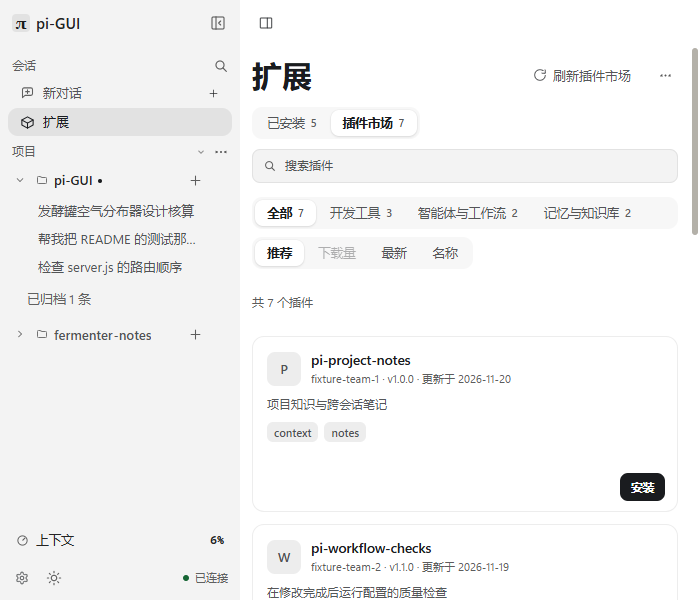
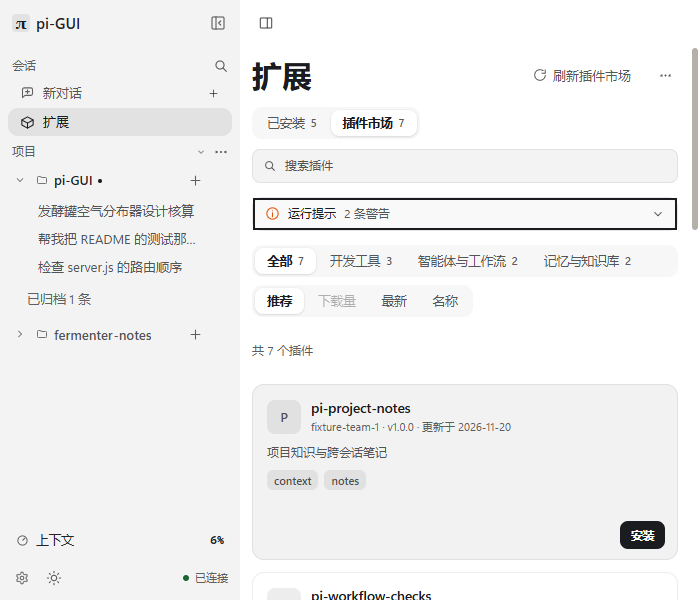
docs(extensions): 更新长运行提示的宽窄窗口截图和验收证据
记录折叠高度、首条扩展位置、键盘滚动范围，以及已通过的准确 CI 基线；代表图只使用可复现的离线数据。

diff --git a/docs/agent-capabilities-phase3-final-acceptance.md b/docs/agent-capabilities-phase3-final-acceptance.md
@@ -56,7 +56,7 @@ PI-Desktop 对照锁定到 [`7b8c3169`](https://github.com/vastsa/PI-Desktop/tre
 | 700×600 浅 | [列表](ui/evidence/agent-capabilities-phase3/skills/700-light-list.png) · [市场](ui/evidence/agent-capabilities-phase3/skills/700-light-04-market.png) | [已安装](ui/evidence/agent-capabilities-phase3/extensions/700-light-installed.png) · [市场](ui/evidence/agent-capabilities-phase3/extensions/700-light-market.png) | [管理](ui/evidence/agent-capabilities-phase3/mcp/700-light-management.png) · [市场](ui/evidence/agent-capabilities-phase3/mcp/700-light-market.png) |
 
 - Skills：Chrome 真实 Renderer，44 张、0 页面异常；[测量](ui/evidence/agent-capabilities-phase3/skills/render.json)。各组技能标题 30px/700，分组 16px，页头按钮 32px，列表和市场内容区横向溢出 0px。[编辑](ui/evidence/agent-capabilities-phase3/skills/700-dark-02c-editor-edit.png) · [导入](ui/evidence/agent-capabilities-phase3/skills/700-light-03-import.png) · [扫描](ui/evidence/agent-capabilities-phase3/skills/700-dark-04b-external.png) · [预览](ui/evidence/agent-capabilities-phase3/skills/1320-dark-07-preview.png) · [成功](ui/evidence/agent-capabilities-phase3/skills/1320-dark-11-notice.png) · [空组](ui/evidence/agent-capabilities-phase3/skills/700-dark-05-empty.png) · [错误](ui/evidence/agent-capabilities-phase3/skills/700-light-06-error.png)。
-- Extensions：Electron 离线真实窗口，20 张；[测量](ui/evidence/agent-capabilities-phase3/extensions/render.json)。两列/一列，市场卡片高 176px、圆角 12px、紧凑按钮 28px，横向溢出 0px。[筛选](ui/evidence/agent-capabilities-phase3/extensions/700-light-filtered.png) · [空结果](ui/evidence/agent-capabilities-phase3/extensions/700-light-empty.png) · [详情](ui/evidence/agent-capabilities-phase3/extensions/1320-dark-detail.png) · [确认](ui/evidence/agent-capabilities-phase3/extensions/1320-dark-confirm.png) · [安装中](ui/evidence/agent-capabilities-phase3/extensions/700-light-installing.png) · [安装失败](ui/evidence/agent-capabilities-phase3/extensions/700-light-install-failed.png)。
+- Extensions：Electron 离线真实窗口，22 张；[测量](ui/evidence/agent-capabilities-phase3/extensions/render.json)。补测使用扩展通知真实入口注入两条合成长诊断，不含用户截图里的实际路径或消息。四组默认只占 **34px**；首条扩展从桌面 y=254.5px / 窄窗 y=284.5px 开始。Enter 展开原文、Tab 进入正文、PageDown 只滚正文，收起后不丢全文；没有提示时不占位。[桌面展开](ui/evidence/agent-capabilities-phase3/extensions/1320-dark-run-notices.png) · [窄窗展开](ui/evidence/agent-capabilities-phase3/extensions/700-light-run-notices.png)。两列/一列，市场卡片高 176px、圆角 12px、紧凑按钮 28px，横向溢出 0px。[筛选](ui/evidence/agent-capabilities-phase3/extensions/700-light-filtered.png) · [空结果](ui/evidence/agent-capabilities-phase3/extensions/700-light-empty.png) · [详情](ui/evidence/agent-capabilities-phase3/extensions/1320-dark-detail.png) · [确认](ui/evidence/agent-capabilities-phase3/extensions/1320-dark-confirm.png) · [安装中](ui/evidence/agent-capabilities-phase3/extensions/700-light-installing.png) · [安装失败](ui/evidence/agent-capabilities-phase3/extensions/700-light-install-failed.png)。
 - MCP：`MCP_VISUAL_MATRIX=1 MCP_MARKET_PAGINATION=1 MCP_MARKET_PROGRESS=1 node tests/mcp-visual.cjs`。原版管理页四组标题 **30px/700**、按钮 32px、管理页溢出 0px；[测量](ui/evidence/agent-capabilities-phase3/mcp/render.json) · [新增](ui/evidence/agent-capabilities-phase3/mcp/700-dark-add.png) · [分页](ui/evidence/agent-capabilities-phase3/mcp/05d-market-narrow.png) · [安装预览](ui/evidence/agent-capabilities-phase3/mcp/04-install-preview.png) · [加载](ui/evidence/agent-capabilities-phase3/mcp/06-market-loading.png) · [不匹配](ui/evidence/agent-capabilities-phase3/mcp/700-light-empty-search.png) · [读取失败](ui/evidence/agent-capabilities-phase3/mcp/700-light-read-error.png)。管理页的测量不证明 MCP 市场在所有数据下无溢出。
 
 ## 测试、构建与审查
@@ -69,7 +69,7 @@ PI-Desktop 对照锁定到 [`7b8c3169`](https://github.com/vastsa/PI-Desktop/tre
 | `node tests/agent-capability-pages.cjs` | 49 | 0 | 三页结构、状态和生命周期 |
 | `npm run test:primitives`，4 套件 | 116 | 0 | 具名检查；包括真实 Electron 样式 |
 | `node tests/server-security.cjs` / `capability-install.cjs` / `high-risk-regressions.cjs` | 44 / 83 / 28 | 0 | 隔离夹具 |
-| `node tests/extension-market-electron.cjs` / `node tests/shortcut-electron.cjs` | 33 / 103 | 0 | 20 / 35 张图，测试窗口不作为正常原生沙箱证明 |
+| `node tests/extension-market-electron.cjs` / `node tests/shortcut-electron.cjs` | 45 / 103 | 0 | 22 / 35 张图，测试窗口不作为正常原生沙箱证明 |
 | `PI_BIN=… node tests/skills-live.cjs` | 32 | 0 | 真实 Pi 1.6.0，仅临时数据 |
 | `PI_BIN=… node tests/agent-capabilities-live.cjs` | 27 | 0 | 源码 HTTP 后端；另指定 `PI_GUI_LIVE_BACKEND` 实测打包后的 `server.cjs` |
 | `npm run build:app -- --rebuild` | — | 0 | 本机 Electron 44.4.3 ZIP 离线重建；Windows x64 整包 335.3 MB |
@@ -91,7 +91,9 @@ PI-Desktop 对照锁定到 [`7b8c3169`](https://github.com/vastsa/PI-Desktop/tre
 
 新增回归提交 `24fbc2b9`；独立审查不等同于合并批准。
 
-**完整证明待验证。** 首次本地 `npm test` 停在 `tests/high-risk-regressions.cjs` 的普通文件名 `report%20final.txt`：断言 `result.ok` 为 `false`（27/28）。上传模块、路由和该用例均不在分支 diff 内；单独复跑为 28/28。失败日志未给出具体请求错误，不能推定根因，也不能把重跑单套件当作全量通过。本地第二次 `npm test` 启动于复审增量之前，不把它提前记作新提交的通过证明；最终提交的完整 PR CI 与本地结果分别记录。
+运行提示增量（产品 `2b04c3c1`、测试 `5523c8cb`）：旧页面的长消息用例先红（页面回归 48/49，期望折叠控件、实际是平铺 section）；改后 49/49，另外通知路由/生命周期 10/10、扩展三套件 310/310、共享原语 116 项通过。Electron 首轮键盘驱动只发送键码，没有模拟原生 Enter 的字符事件，未能展开；与仓库已有原生 `summary` 测试对齐输入方式，不更改产品键盘语义，最终四组 45/45。
+
+**完整证明待验证。** 首次本地 `npm test` 停在 `tests/high-risk-regressions.cjs` 的普通文件名 `report%20final.txt`：断言 `result.ok` 为 `false`（27/28）。上传模块、路由和该用例均不在分支 diff 内；单独复跑为 28/28。失败日志未给出具体请求错误，不能推定根因，也不能把重跑单套件当作全量通过。本地第二次 `npm test` 启动于复审增量之前，在 `tests/provider-config-store.cjs` 的 3 项 Windows 原生凭据文件保护断言失败，不记作通过。[完整 PR CI 45033732461](https://github.com/HYJ1817/pi-gui/actions/runs/45033732461) 对 `74955f2e` 已成功，但不替代随后「运行提示折叠及已安装列表精简」的完整证明。后者已通过本地定向和真实渲染，最终提交的完整 CI 另记。
 
 边界：没有真实远端模型、OAuth、外部 Registry 安装、第三方 MCP 或安装程序升级测试；未在同版本上实际操作 PI-Desktop（使用了上游原图与当前源码）；未逐项覆盖任意字体放大、所有瞬时交互或所有可见颜色的 WCAG 对比度。Windows 文件符号链接的跳过项仍待有权限的环境复验。文件系统对象的外部并发替换保留[安全规范](security.md#技能写入与市场2a)所述边界。
 

diff --git a/docs/agent-capabilities.md b/docs/agent-capabilities.md
@@ -33,9 +33,10 @@ Pi 原生 MCP 协议都**没有改**，变的只是前端承载。
 - **扩展页**：页头（唯一的「扩展」标题 + 当前页签的动作，「已安装」是刷新）→ 页签行
   （已安装 · 插件市场，右侧挂当前页签的工具栏，「已安装」是搜索与「找到 N 个，共 M 个」）→ 页签面板。
   工作区标题栏里的同名标题在本页隐藏，一屏只有一个「扩展」。
+  - 两个页签共享当前 Pi 运行的「运行提示」。没有提示就不占位；有提示时默认收成一行，按错误、警告、普通提示显示去重条数。展开才显示原文与重复次数。更新不抢焦点，切项目或重启后不保留旧原文。扩展主动上报的严重错误仍走原有即时通知，不把来源不明的诊断归给某个包。
   - 「已安装」合并只读 Registry 与包清单，整宽条目按证据分组：需要处理（有 `error`）→ 已加载 → 未加载 →
-    加载状态未知（`loaded: null` 单独成组，不并进「未加载」）。每行显示名称、版本 · 来源 · 作用域、非空简介、
-    需要注意的状态标签（已停用 / 需要重启）、至多 3 个已确认能力（其余折成「另有 N 项」）、一行错误。
+    加载状态未知（`loaded: null` 单独成组，不并进「未加载」）。每行显示名称、版本 · 来源 · 作用域、一行非空简介，
+    标题旁保留更新、停用或需要重启等状态；加载错误仍直接可见。命令和工具名字不占列表行，仍可搜索。
     「详情」在卡片内展开：事实行（`null` 显示「未知」）、错误阶段、已确认能力全集、工具清单限制；
     展开时简介不再截断，详情里不重复简介与错误。详情第一次展开才建，重绘后保持展开。
   - 列表之后是「已知能力」（Web Access / Subagents / Pi Memory / Browser Use 的受控安装与运行观察、
